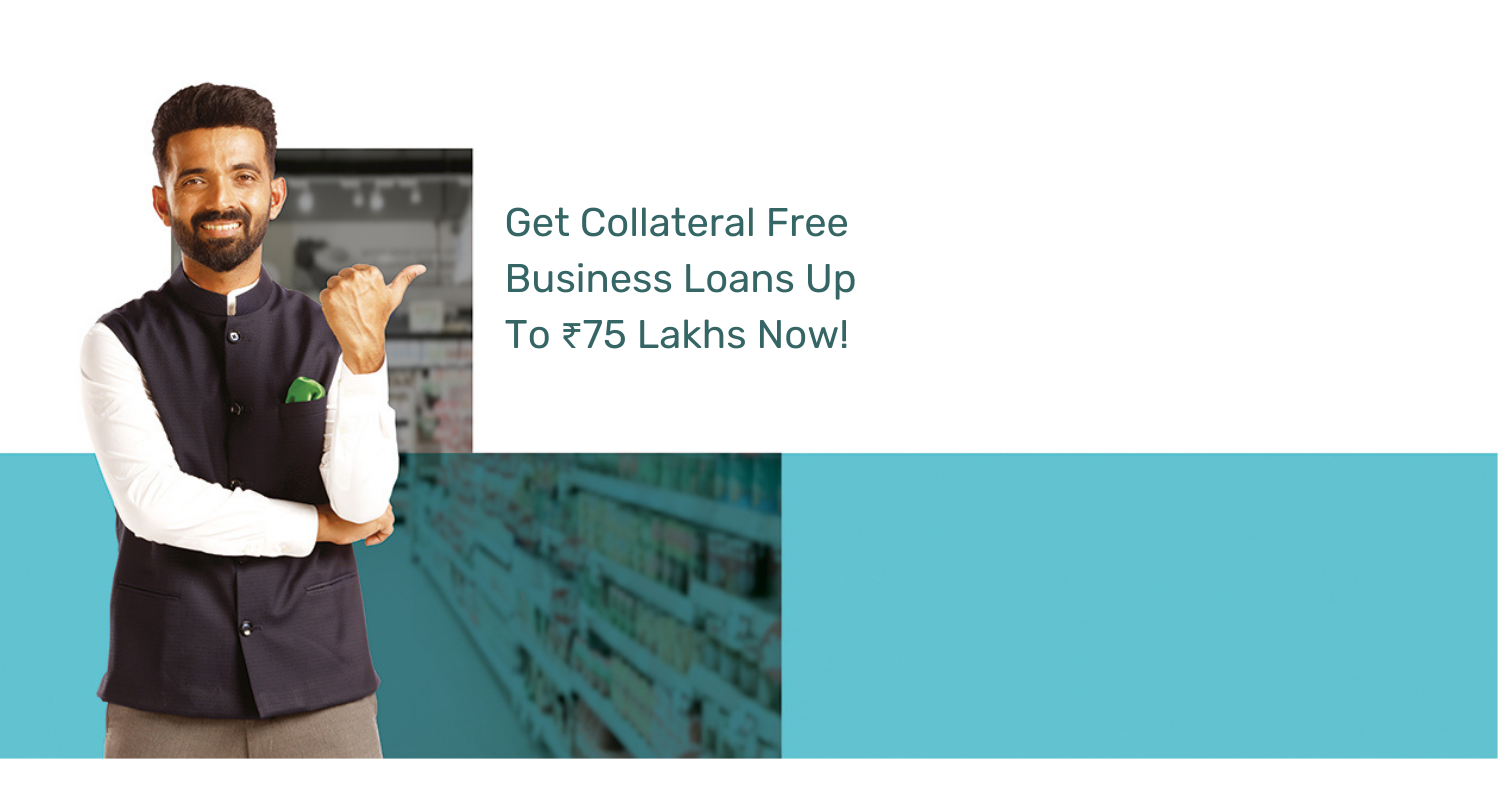
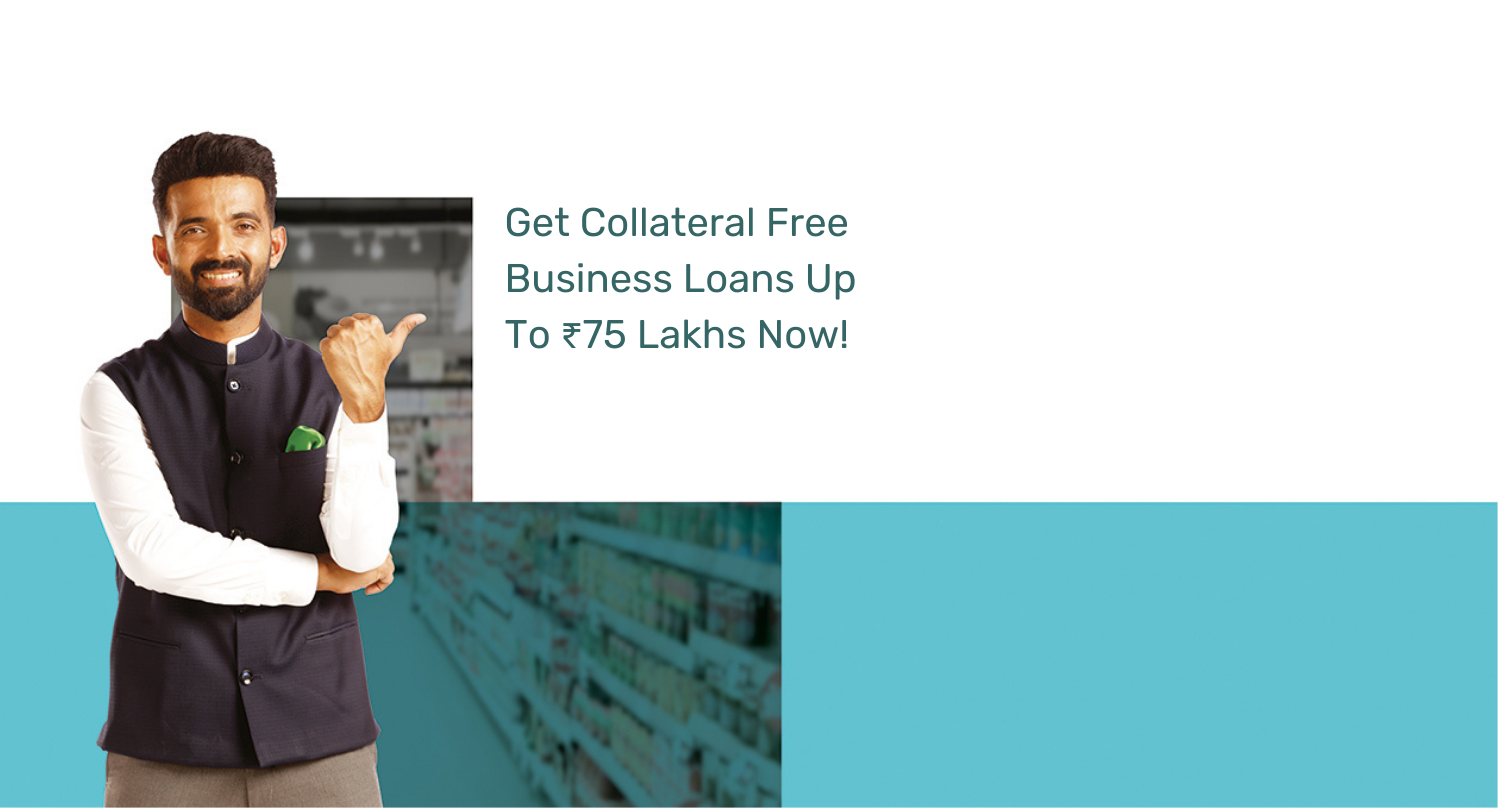
consent terms view fixed

Changed region(s): [[0.0, 0.0928, 1.0, 1.0]]

diff --git a/src/screens/partner/LandingPage/FormArea/FormArea.js b/src/screens/partner/LandingPage/FormArea/FormArea.js
@@ -22,31 +22,29 @@ const FormArea = ({
       showmore={showmore}
     />
   ) : (
-    <div
-      className={`formMainArea`}
-      style={{
-        flexWrap: "wrap",
-        background: `url(${title === "NeoGrowth" ? LoansBg : InstaBg})`,
-        backgroundSize: "101vw auto",
-        backgroundRepeat: "no-repeat",
-      }}
-    >
-      <div className={"col-md-7 col-xs-12 imageOfGirl"}></div>
-      <div className={"col-md-4 col-xs-12 basicForm"}>
-        <div className={"col-md-11"}>
-          <div
-            style={{
-              flex: 1,
-            }}
-          >
-            <Form
-              masterData={masterData}
-              url={url}
-              save_basic_details={saveBasicDetails}
-              title={title}
-              more={more}
-              showmore={showmore}
-            />
+    <div style={{ backgroundColor: "rgb(234, 247, 237)" }}>
+      <div
+        className={`formMainArea`}
+        style={{
+          flexWrap: "wrap",
+          background: `url(${title === "NeoGrowth" ? LoansBg : InstaBg})`,
+          backgroundSize: "101vw auto",
+          backgroundRepeat: "no-repeat",
+        }}
+      >
+        <div className={"col-md-7 col-xs-12 imageOfGirl"}></div>
+        <div className={"col-md-4 col-xs-12 basicForm"}>
+          <div className={"col-md-12"}>
+            <div>
+              <Form
+                masterData={masterData}
+                url={url}
+                save_basic_details={saveBasicDetails}
+                title={title}
+                more={more}
+                showmore={showmore}
+              />
+            </div>
           </div>
         </div>
       </div>

diff --git a/src/screens/partner/partner.js b/src/screens/partner/partner.js
@@ -105,7 +105,7 @@ const Partner = () => {
         style={{
           minHeight: "99vh",
           flex: more ? 0 : 2.5,
-          padding: more ? 0 : "0 40px",
+          padding: more ? 0 : showNewDesign ? "0 40px" : "",
         }}
       >
         {showNewDesign ? (
@@ -217,16 +217,7 @@ const Partner = () => {
         )}
       </div>
       {isFormVisible && showNewDesign ? (
-        <div
-          style={{
-            flex: 1,
-            width: "100%",
-            height: "fit-content",
-            position: "sticky",
-            top: 0,
-          }}
-          className={"form-in-desktop"}
-        >
+        <div className={"form-in-desktop"}>
           <Form
             showmore={showmore}
             more={more}

diff --git a/src/screens/partner/LandingPage/index.js b/src/screens/partner/LandingPage/index.js
@@ -25,7 +25,6 @@ function LandingPage({ masterData, url, saveBasicDetails, title }) {
 
       {!more && (
         <>
-          {" "}
           <KeyBenefits title={title} />
           {title !== "NeoGrowth" && (
             <>
